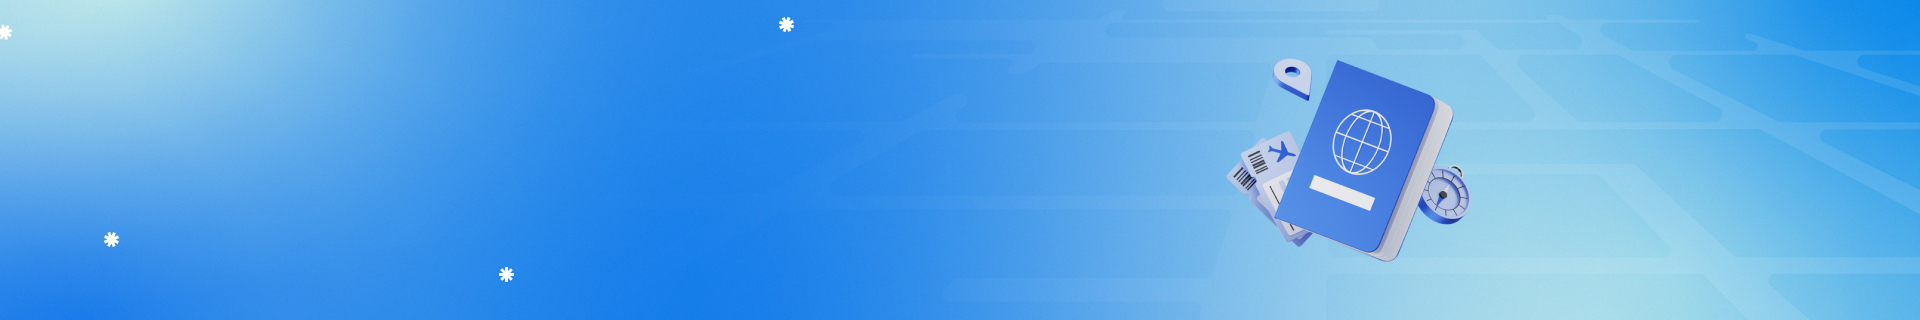
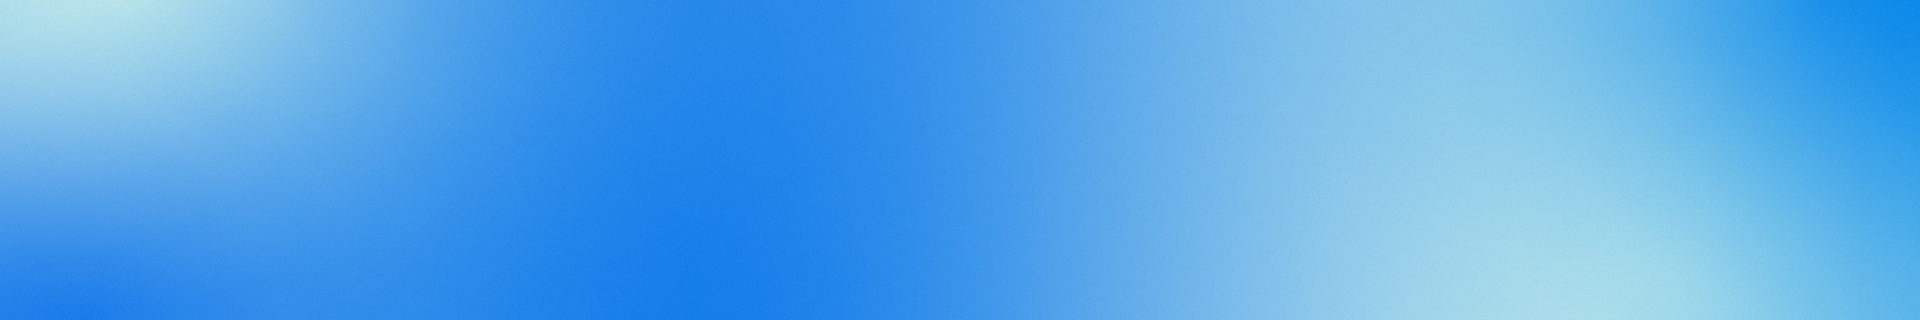
250211 반응형 완

diff --git a/sub/self_plan.html b/sub/self_plan.html
@@ -181,10 +181,16 @@
         <section>
           <div class="sec1_wrap">
             <div class="left_text">
-              <h2>셀프플랜</h2>
-              <p>나만의 여행을 조합하여 만들어보세요</p>
+              <div class="text">
+                <h2>셀프플랜</h2>
+                <p>나만의 여행을 조합하여 만들어보세요</p>
+              </div>
+              <img
+                src="../img/self_plan/banner_illust.png"
+                alt="배너 일러스트"
+              />
             </div>
-            <img src="../img/self_plan/banner.jpg" alt="connect_talk_banner" />
+            <img src="../img/self_plan/banner.jpg" alt="배너 배경" />
           </div>
         </section>
 

diff --git a/css/connect_talk_responsive.css b/css/connect_talk_responsive.css
@@ -68,7 +68,9 @@
     object-fit: none;
     margin-top: 0;
     position: absolute;
-    /* transform: translateX(-720px); */
+  }
+  .sec1_wrap .left_text img {
+    display: none;
   }
   .sec1_wrap .left_text {
     top: 50%;
@@ -249,6 +251,10 @@
     object-fit: cover;
     margin-top: 0;
   }
+  .sec1_wrap .left_text img {
+    width: 24vw;
+    margin-top: auto;
+  }
   .sec1_wrap .left_text h2 {
     margin-bottom: 10px;
     font-size: clamp(3vw, 30px, 4vw);
@@ -406,6 +412,7 @@
     object-fit: cover;
     margin-top: 0;
   }
+
   .sec1_wrap .left_text h2 {
     margin-bottom: 10px;
     font-size: clamp(3vw, 30px, 4vw);

diff --git a/sub/promotion.html b/sub/promotion.html
@@ -180,8 +180,14 @@
         <section>
           <div class="sec1_wrap">
             <div class="right_text">
-              <h2>프로모션</h2>
-              <p>365일 혜택이 쏟아지는 커넥트!</p>
+              <div class="text">
+                <h2>프로모션</h2>
+                <p>365일 혜택이 쏟아지는 커넥트!</p>
+              </div>
+              <img
+                src="../img/self_plan/banner_illust.png"
+                alt="배너 일러스트"
+              />
             </div>
             <img src="..//img/promotion/banner.jpg" alt="promotion_main" />
           </div>

diff --git a/sub/connect_talk.html b/sub/connect_talk.html
@@ -182,8 +182,14 @@
         <section>
           <div class="sec1_wrap">
             <div class="left_text">
-              <h2>커넥트톡</h2>
-              <p>안심 인증 완료된 동행을 구해보세요</p>
+              <div class="text">
+                <h2>커넥트톡</h2>
+                <p>안심 인증 완료된 동행을 구해보세요</p>
+              </div>
+              <img
+                src="../img/connect_talk/banner_illust.png"
+                alt="배너 일러스트"
+              />
             </div>
             <img
               src="../img/connect_talk/banner.jpg"

diff --git a/sub/domestic_travel.html b/sub/domestic_travel.html
@@ -181,8 +181,14 @@
         <section>
           <div class="sec1_wrap">
             <div class="left_text">
-              <h2>국내여행</h2>
-              <p>국내여행도 커넥트와 더 스페셜하게</p>
+              <div class="text">
+                <h2>국내여행</h2>
+                <p>국내여행도 커넥트와 더 스페셜하게</p>
+              </div>
+              <img
+                src="../img/self_plan/banner_illust.png"
+                alt="배너 일러스트"
+              />
             </div>
             <img
               src="../img/domestic_travel/banner.jpg"

diff --git a/sub/simple_plan.html b/sub/simple_plan.html
@@ -181,8 +181,14 @@
         <section>
           <div class="sec1_wrap">
             <div class="left_text">
-              <h2>간편플랜</h2>
-              <p>커넥트가 엄선해 만든 간편 투어</p>
+              <div class="text">
+                <h2>간편플랜</h2>
+                <p>커넥트가 엄선해 만든 간편 투어</p>
+              </div>
+              <img
+                src="../img/self_plan/banner_illust.png"
+                alt="배너 일러스트"
+              />
             </div>
             <img
               src="../img/simple_plan/banner.jpg"

diff --git a/css/mypage.css b/css/mypage.css
@@ -586,12 +586,15 @@ main {
   height: 240px;
   display: flex;
   flex-direction: column;
+  padding-bottom: 10px;
+  box-sizing: border-box;
 }
 .wish img {
   width: 150px;
   height: 130px;
   object-fit: cover;
   margin-bottom: 6px;
+  overflow: hidden;
 }
 .wish p:nth-of-type(1) {
   font-size: var(--xs-font-size);
@@ -602,6 +605,7 @@ main {
   font-size: var(--ms-font-size);
   font-weight: 700;
   color: var(--main-black);
+  line-height: 1;
 }
 .wish a {
   margin-bottom: 10px;

diff --git a/css/domestic_responsive.css b/css/domestic_responsive.css
@@ -78,7 +78,9 @@
     object-fit: none;
     margin-top: 0;
     position: absolute;
-    /* transform: translateX(-720px); */
+  }
+  .sec1_wrap .left_text img {
+    display: none;
   }
   .sec1_wrap .left_text {
     top: 50%;
@@ -299,6 +301,10 @@
     height: 100%;
     object-fit: cover;
     margin-top: 0;
+  }
+  .sec1_wrap .left_text img {
+    width: 24vw;
+    margin-top: auto;
   }
   .sec1_wrap .left_text h2 {
     margin-bottom: 10px;

diff --git a/css/self/self_plan_responsive.css b/css/self/self_plan_responsive.css
@@ -78,7 +78,9 @@
     object-fit: none;
     margin-top: 0;
     position: absolute;
-    /* transform: translateX(-720px); */
+  }
+  .sec1_wrap .left_text img {
+    display: none;
   }
   .sec1_wrap .left_text {
     top: 50%;
@@ -299,6 +301,10 @@
     height: 100%;
     object-fit: cover;
     margin-top: 0;
+  }
+  .sec1_wrap .left_text img {
+    width: 24vw;
+    margin-top: auto;
   }
   .sec1_wrap .left_text h2 {
     margin-bottom: 10px;

diff --git a/css/simple_plan_responsive.css b/css/simple_plan_responsive.css
@@ -78,7 +78,9 @@
     object-fit: none;
     margin-top: 0;
     position: absolute;
-    /* transform: translateX(-720px); */
+  }
+  .sec1_wrap .left_text img {
+    display: none;
   }
   .sec1_wrap .left_text {
     top: 50%;
@@ -299,6 +301,10 @@
     height: 100%;
     object-fit: cover;
     margin-top: 0;
+  }
+  .sec1_wrap .left_text img {
+    width: 24vw;
+    margin-top: auto;
   }
   .sec1_wrap .left_text h2 {
     margin-bottom: 10px;

diff --git a/css/promotion_responsive.css b/css/promotion_responsive.css
@@ -70,6 +70,9 @@
     position: absolute;
     transform: translateX(-720px);
   }
+  .sec1_wrap .left_text img {
+    display: none;
+  }
   .sec1_wrap .right_text {
     top: 50%;
   }
@@ -244,6 +247,10 @@
     height: 100%;
     object-fit: cover;
     margin-top: 0;
+  }
+  .sec1_wrap .right_text img {
+    width: 24vw;
+    margin-top: auto;
   }
   .sec1_wrap .right_text h2 {
     margin-bottom: 10px;

diff --git a/css/promotion.css b/css/promotion.css
@@ -270,6 +270,16 @@ h1 {
   z-index: 99;
   text-align: right;
 }
+.right_text {
+  display: flex;
+  justify-content: space-between;
+  align-items: center;
+  flex-direction: row-reverse;
+}
+.sec1_wrap .right_text img {
+  width: fit-content;
+  margin-top: auto;
+}
 .sec1_wrap .right_text h2 {
   font-size: 32px;
   margin-bottom: 10px;
